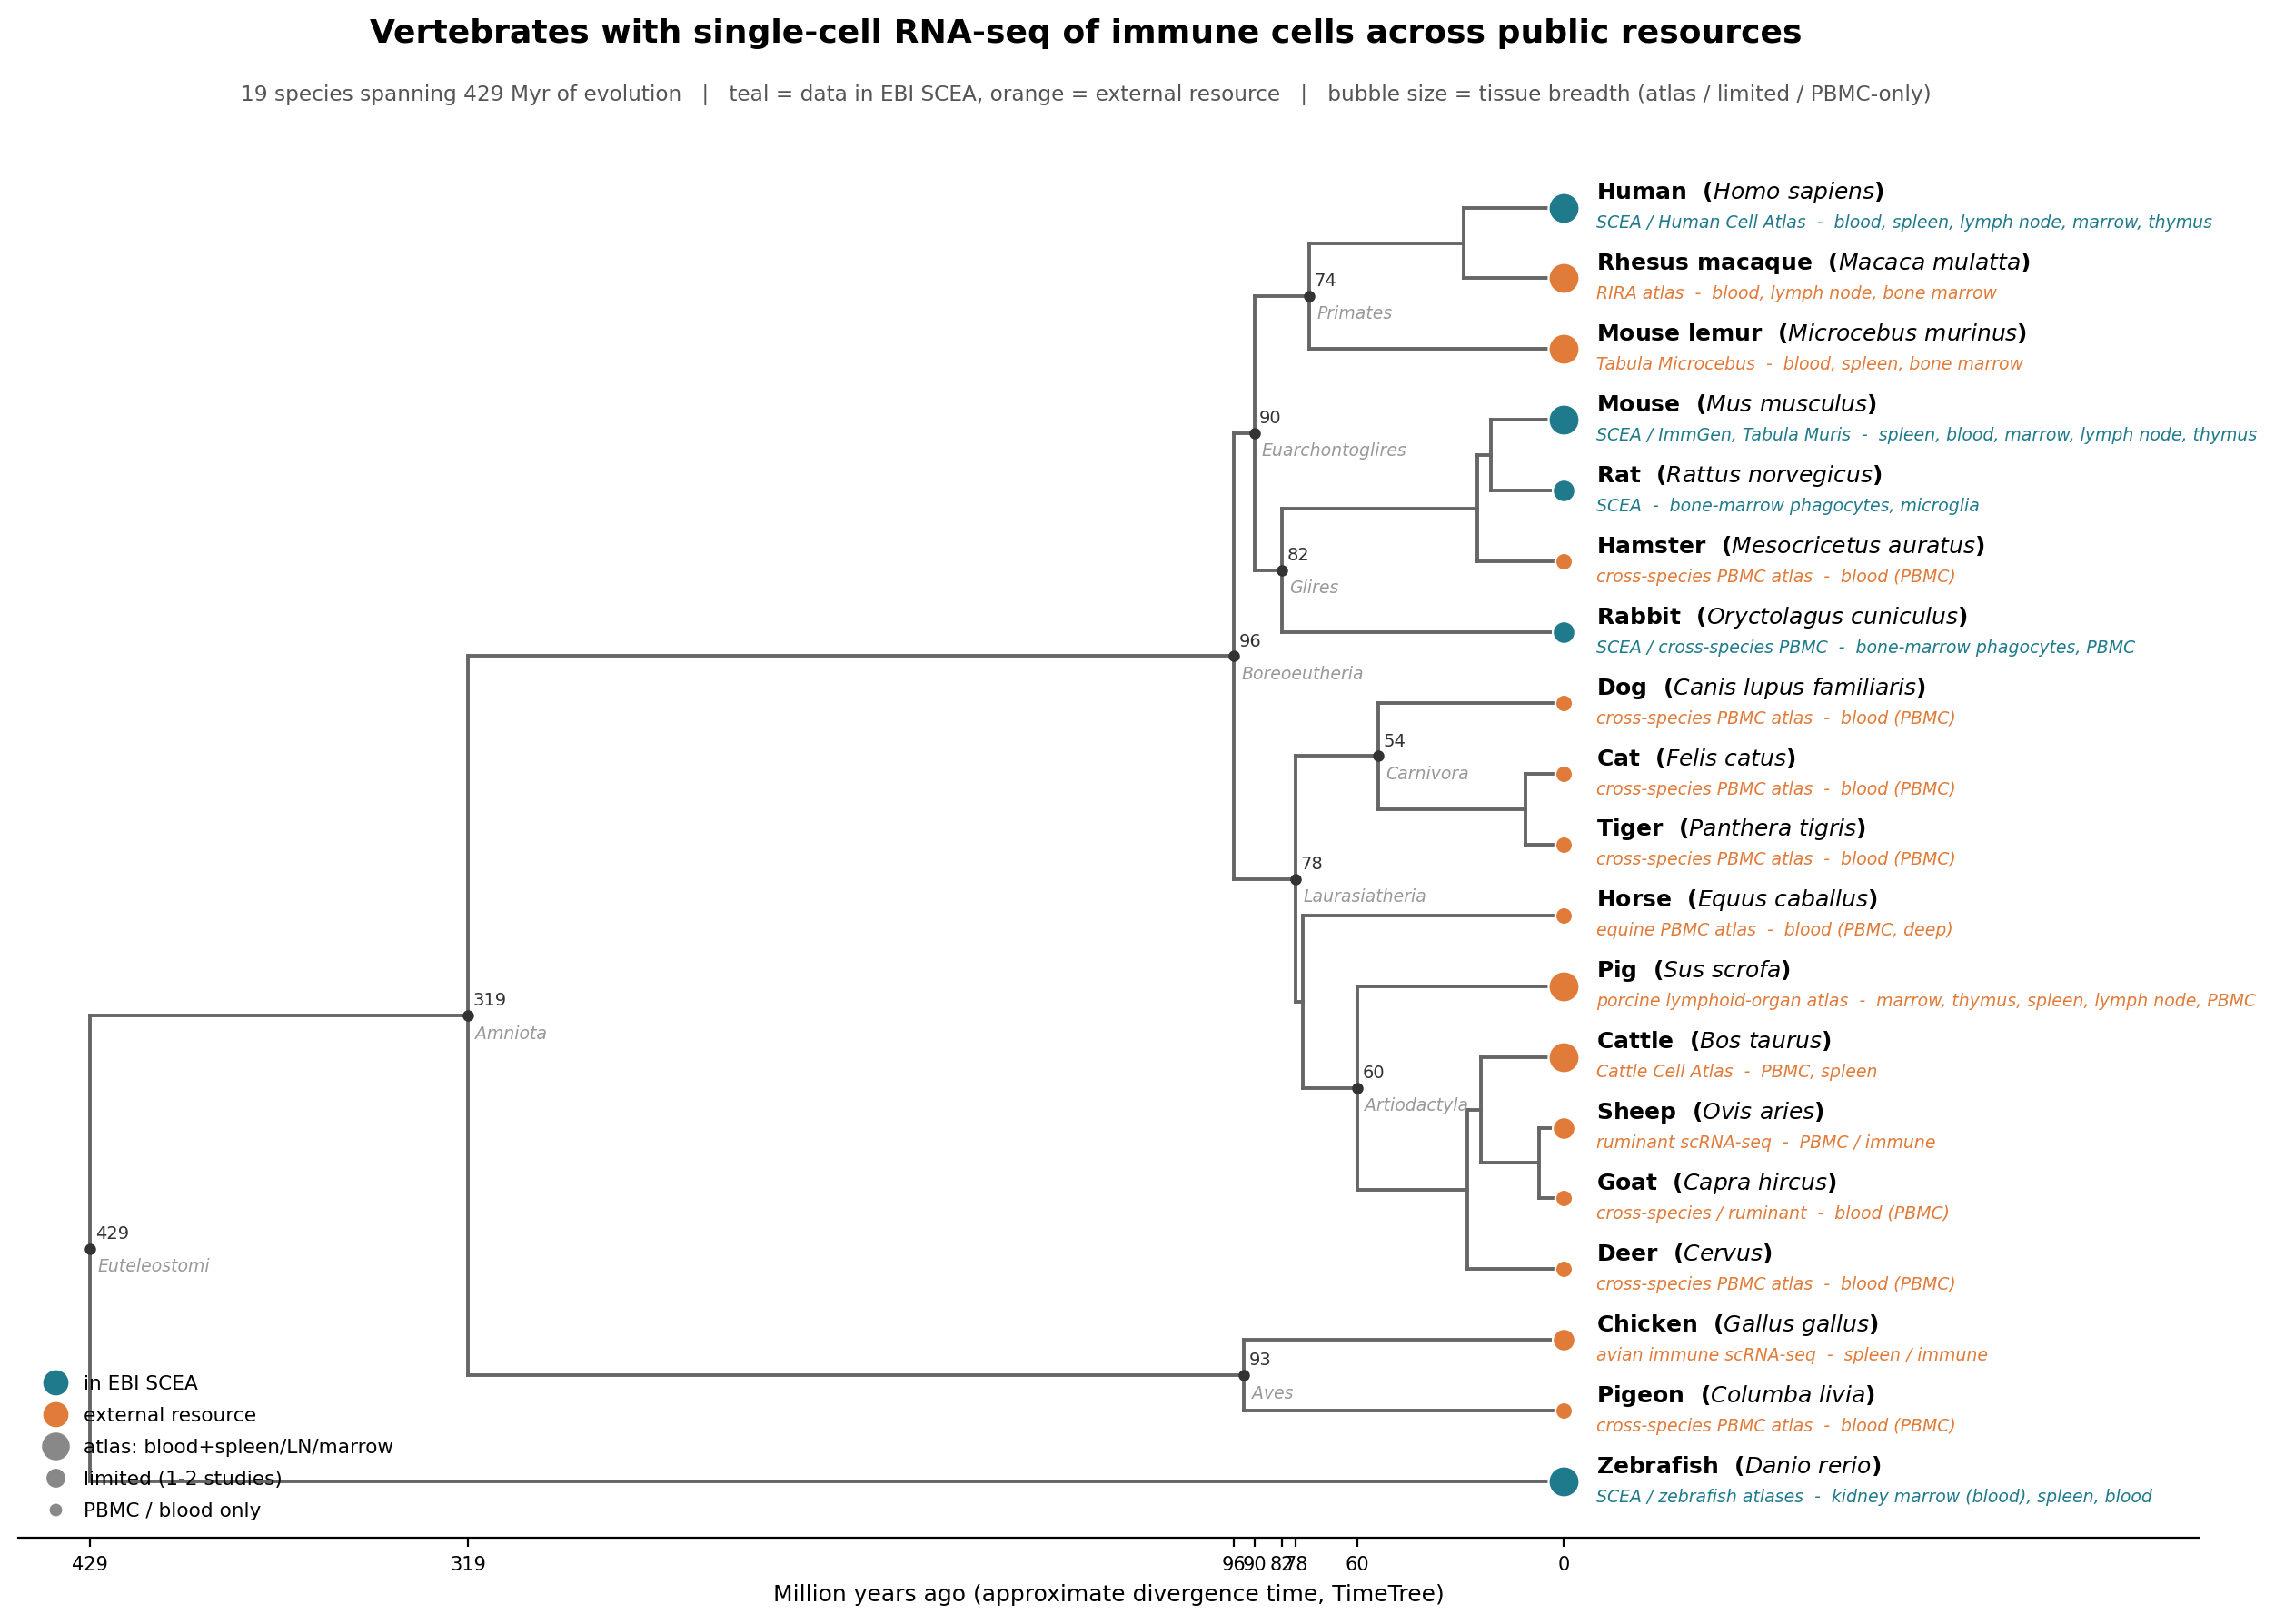
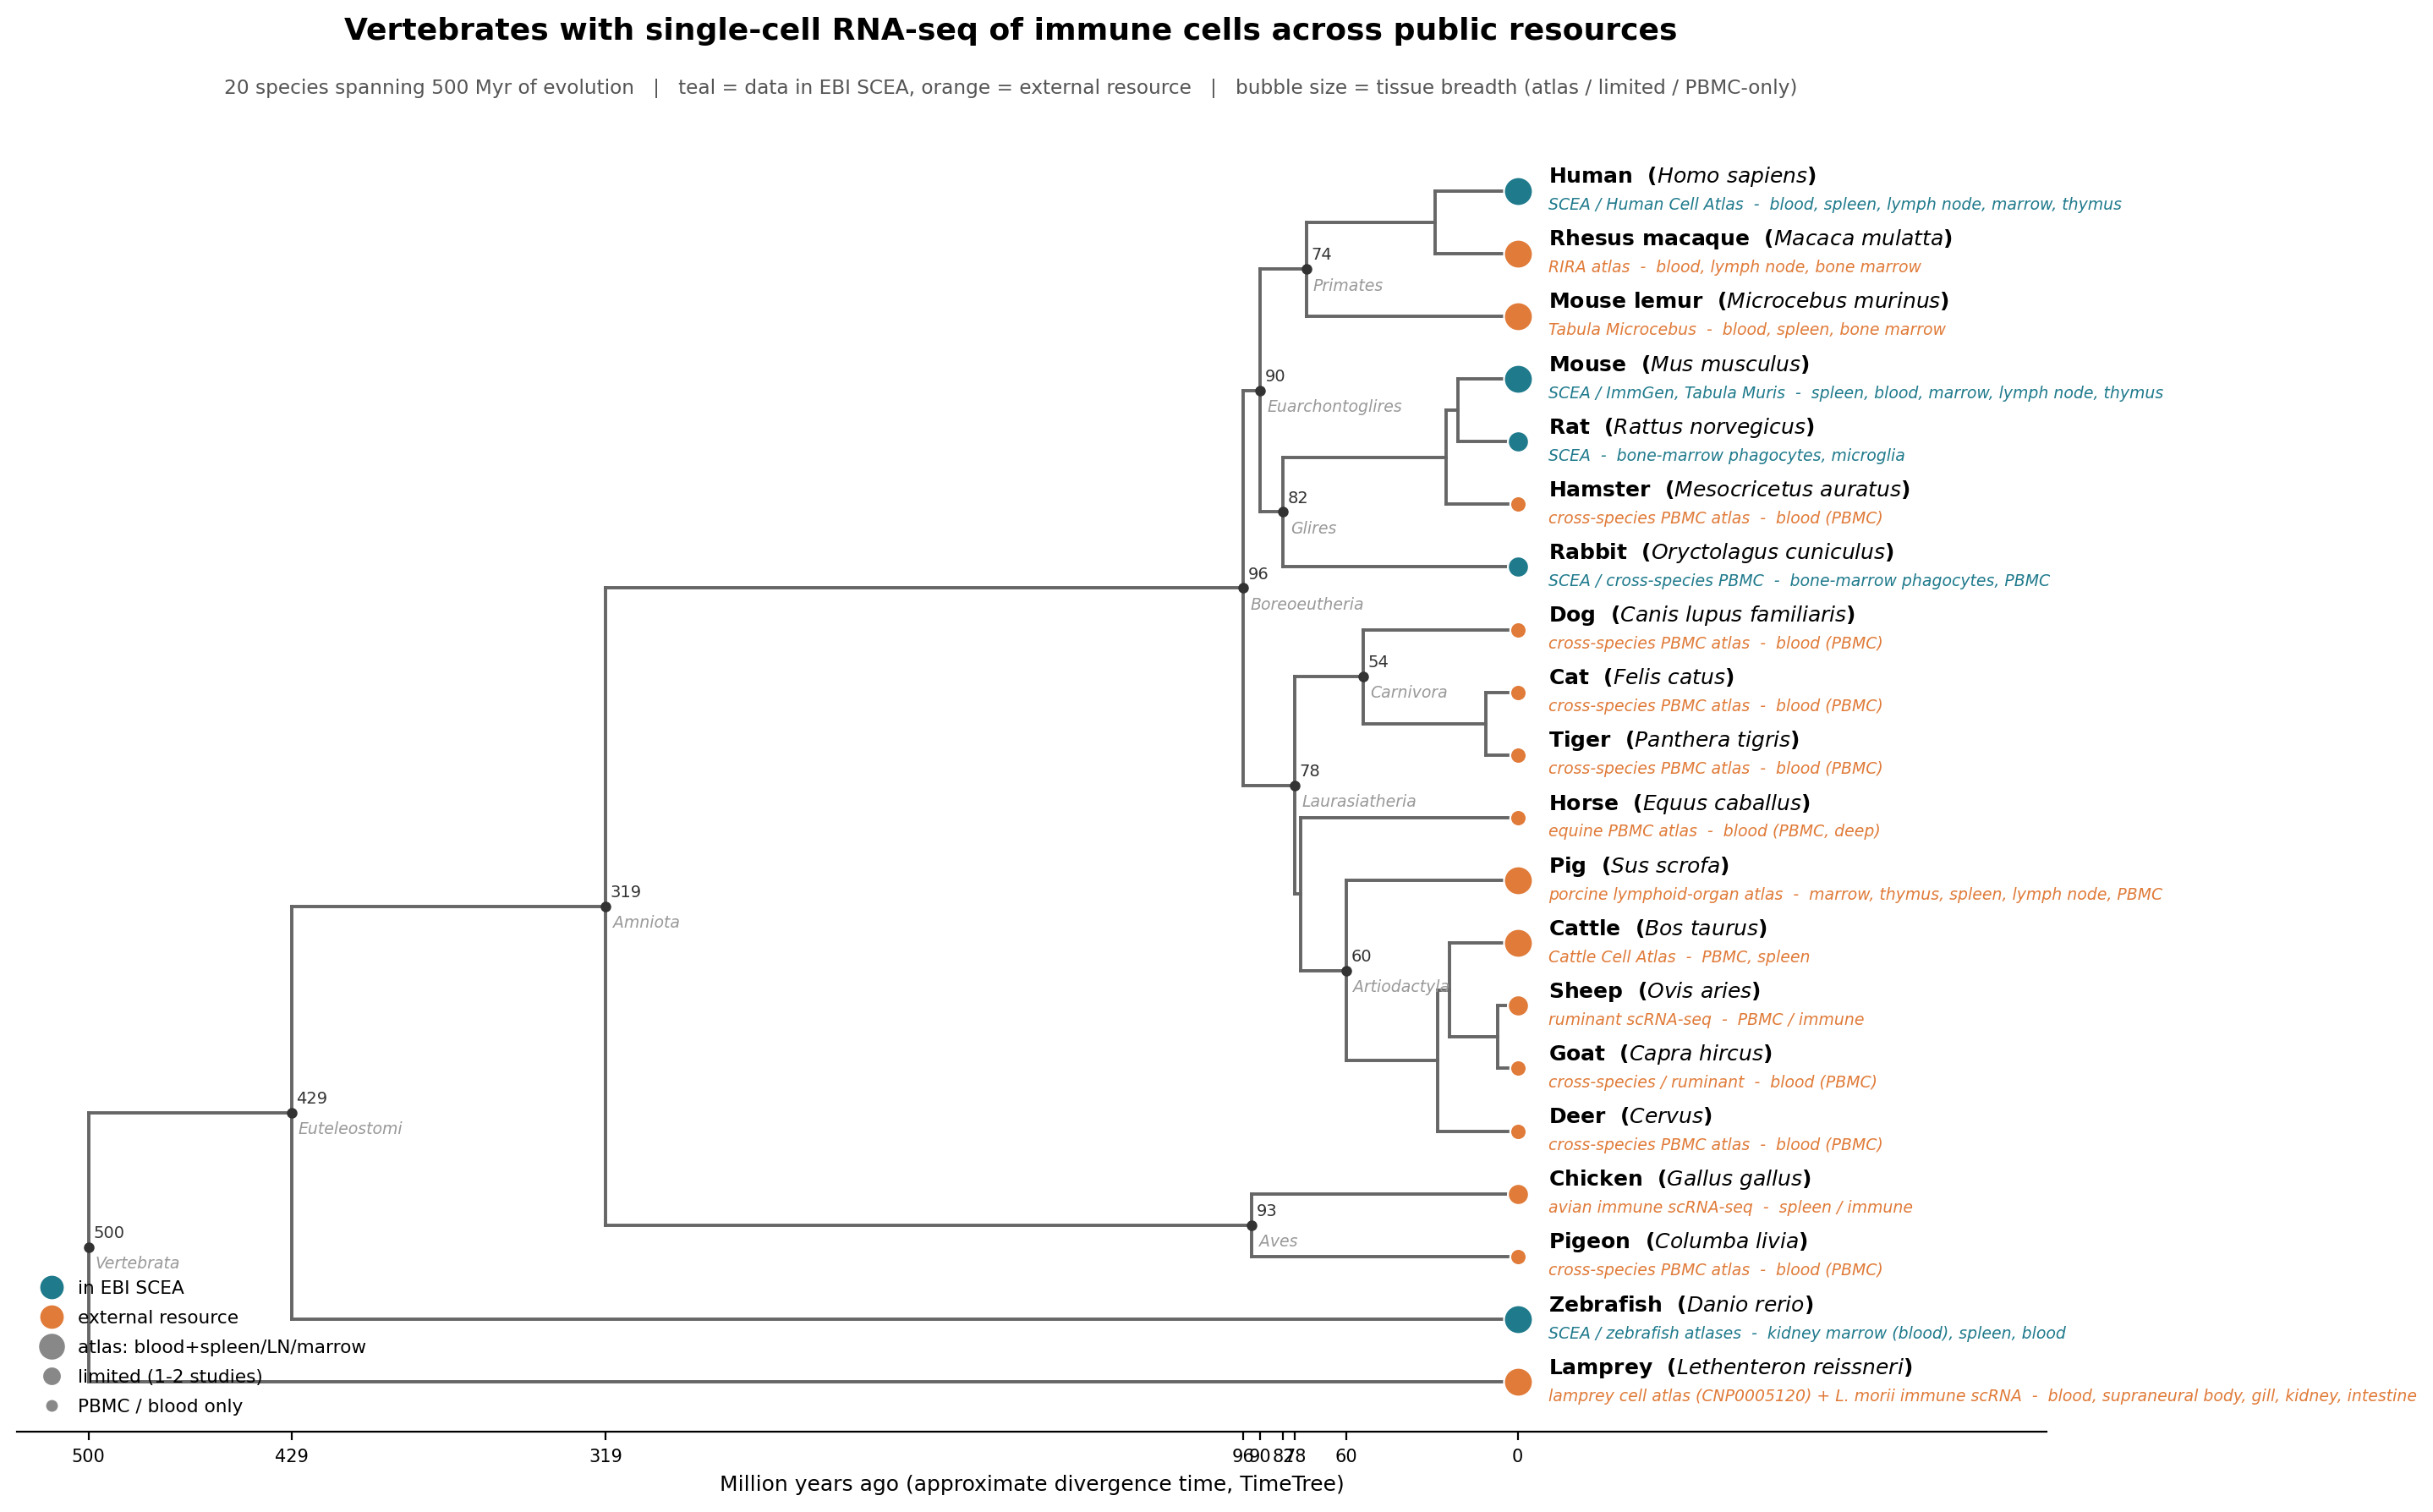
lamprey added

diff --git a/scripts/06_cross_resource_immune_tree.py b/scripts/06_cross_resource_immune_tree.py
@@ -7,7 +7,13 @@ This extends scripts/05 (SCEA-only) with species whose immune-cell scRNA-seq
 lives outside SCEA: rhesus macaque (RIRA), mouse lemur (Tabula Microcebus), pig
 (porcine lymphoid-organ immune atlas), cattle (Cattle Cell Atlas), horse (equine
 PBMC atlas), and the cat/dog/goat/deer/hamster/tiger/pigeon/chicken/sheep
-profiled in cross-species PBMC / livestock studies.
+profiled in cross-species PBMC / livestock studies. The jawless-vertebrate
+outgroup is lamprey: a 14-tissue cell atlas of Lethenteron reissneri (604k
+cells/nuclei, CNGB CNP0005120; Nat Commun 2025, s41467-025-56153-w) plus an
+immune-focused gill/blood/intestine lymphocyte study in Lampetra morii
+(65k cells; Nat Commun 2024, s41467-024-51763-2). Both profile VLR lymphocytes,
+granulocytes, monocytes/macrophages and DCs in lamprey hematopoietic tissues
+(blood, supraneural body, gill, kidney, intestine), rooting the tree ~500 Mya.
 
 Each tip is annotated with its resource and immune tissues, coloured by whether
 the data are in SCEA or an external resource, and sized by tissue breadth
@@ -61,6 +67,7 @@ SP = {
  "Gallus gallus":         ("Chicken",      False, "limited", "avian immune scRNA-seq",          "spleen / immune"),
  "Columba livia":         ("Pigeon",       False, "pbmc",    "cross-species PBMC atlas",        "blood (PBMC)"),
  "Danio rerio":           ("Zebrafish",    True,  "atlas",   "SCEA / zebrafish atlases",        "kidney marrow (blood), spleen, blood"),
+ "Lethenteron reissneri": ("Lamprey",      False, "atlas",   "lamprey cell atlas (CNP0005120) + L. morii immune scRNA", "blood, supraneural body, gill, kidney, intestine"),
 }
 
 # --- time-calibrated tree (ages Mya, tips at 0) -------------------------------
@@ -100,7 +107,10 @@ chicken, pigeon = L("Gallus gallus"), L("Columba livia")
 birds     = I(93, [chicken, pigeon], "Aves")
 amniota   = I(319, [boreo, birds], "Amniota")
 zebrafish = L("Danio rerio")
-root      = I(429, [amniota, zebrafish], "Euteleostomi")
+euteleostomi = I(429, [amniota, zebrafish], "Euteleostomi")
+# Cyclostome outgroup: lamprey (jawless vertebrate) roots the whole tree
+lamprey   = L("Lethenteron reissneri")
+root      = I(500, [euteleostomi, lamprey], "Vertebrata")
 
 # layout
 order = []
@@ -140,8 +150,8 @@ def draw(n):
         ax.plot([n.age, n.age], [min(ys), max(ys)], color="#666666", lw=1.4, zorder=1)
 draw(root)
 
-LABEL_NODES = [root, amniota, boreo, laurasia, euarch, glires, primates,
-               carnivora, artiodactyla, birds]
+LABEL_NODES = [root, euteleostomi, amniota, boreo, laurasia, euarch, glires,
+               primates, carnivora, artiodactyla, birds]
 for nd in LABEL_NODES:
     ax.plot(nd.age, yof[nd], "o", ms=3.5, color="#333333", zorder=3)
     ax.annotate(f"{int(nd.age)}", (nd.age, yof[nd]), textcoords="offset points",
@@ -163,12 +173,12 @@ for lf in order:
     ax.annotate(f"{resource}  -  {tissues}", (0, y), textcoords="offset points",
                 xytext=(13, -8), fontsize=6.8, color=col, style="italic")
 
-ax.set_xlim(450, -185)
+ax.set_xlim(525, -185)
 ax.set_ylim(-0.8, len(order) - 0.2)
 ax.set_yticks([])
 for s in ("top", "left", "right"): ax.spines[s].set_visible(False)
 ax.set_xlabel("Million years ago (approximate divergence time, TimeTree)", fontsize=9)
-ax.set_xticks([429, 319, 96, 90, 82, 78, 60, 0])
+ax.set_xticks([500, 429, 319, 96, 90, 82, 78, 60, 0])
 ax.tick_params(axis="x", labelsize=7.5)
 
 fig.text(0.5, 0.965, "Vertebrates with single-cell RNA-seq of immune cells "